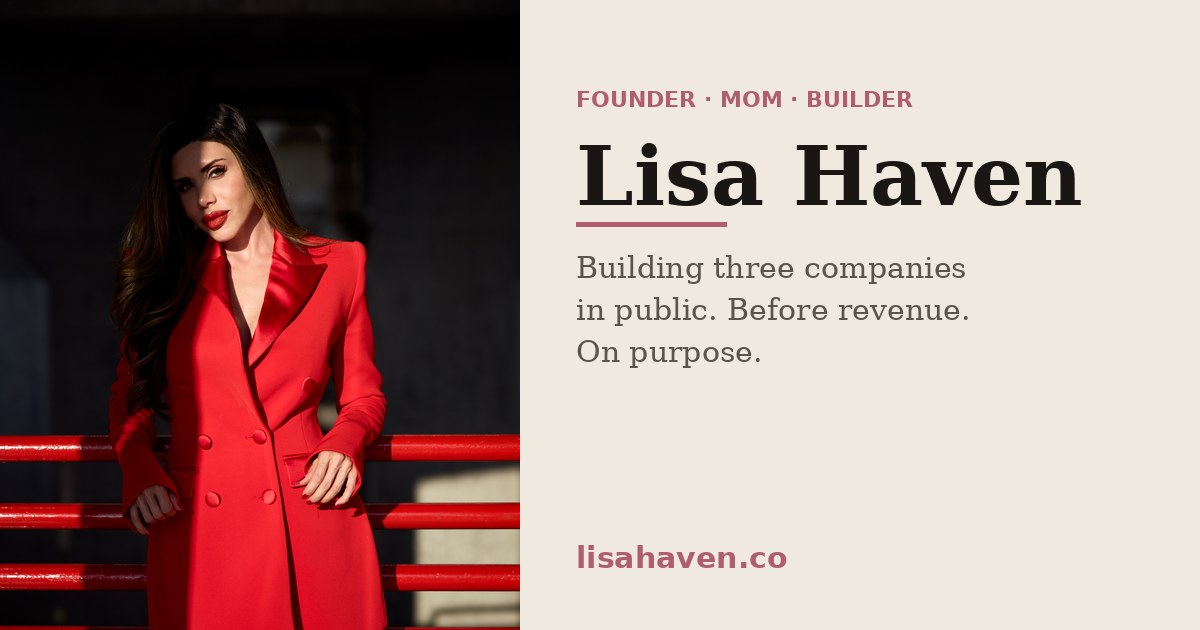
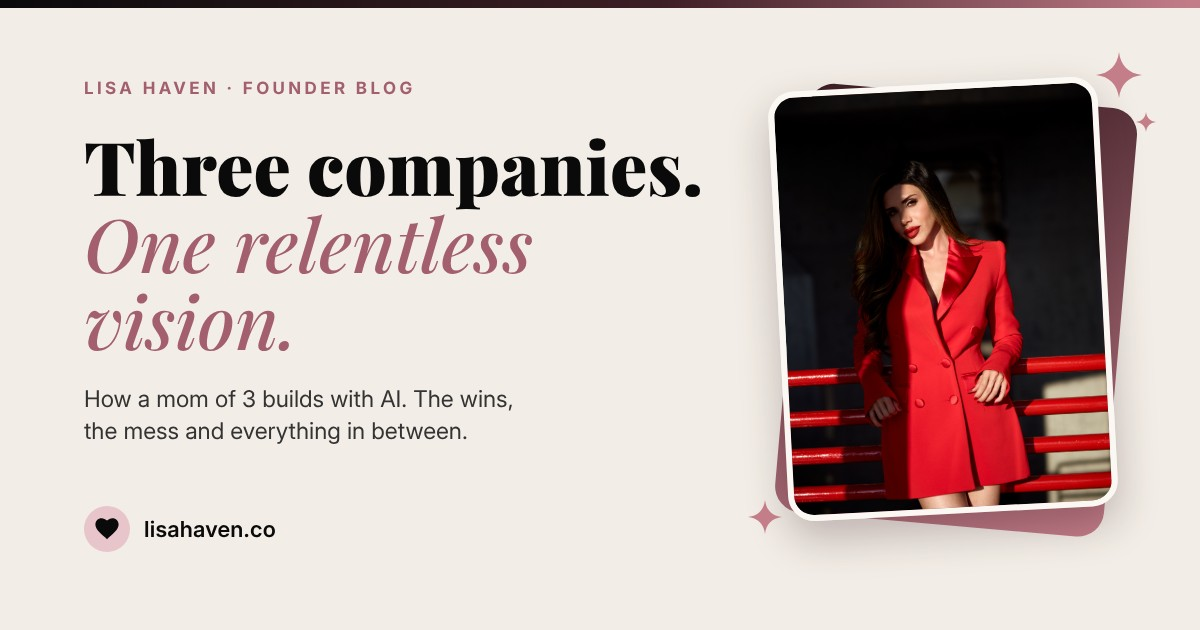
New branded link preview cards for every post and the home page
Claude-Session: https://claude.ai/code/session_01W1Bq6CJjowp62NKPwwQUNW

diff --git a/templates/share.html b/templates/share.html
@@ -1,0 +1,54 @@
+<!DOCTYPE html>
+<html lang="en"><head><meta charset="UTF-8"><title>Lisa Haven share card</title>
+<!-- Link preview card (1200 x 630) for texts, iMessage, LinkedIn, Facebook and X. Filled in by tools/render-share.py -->
+<style>
+@font-face{font-family:'PF';src:url('fonts/PlayfairDisplay.ttf');font-weight:400 900}
+@font-face{font-family:'PF';src:url('fonts/PlayfairDisplay-Italic.ttf');font-weight:400 900;font-style:italic}
+@font-face{font-family:'IN';src:url('fonts/Inter.ttf');font-weight:300 800}
+:root{--cream:#F2EDE6;--ink:#0A0A0A;--rose:#C47E8A;--rd:#A35F6D;--rl:#E8C4CB;--plum:#3D1E25}
+*{margin:0;padding:0;box-sizing:border-box}
+body{background:var(--cream)}
+#card{width:1200px;height:630px;position:relative;overflow:hidden;background:var(--cream)}
+.ribbon{position:absolute;top:0;left:0;right:0;height:8px;background:linear-gradient(90deg,#0A0A0A,#3D1E25 55%,#C47E8A)}
+.left{position:absolute;left:84px;top:78px;width:620px;height:474px;display:flex;flex-direction:column}
+.eye{font:700 17px 'IN';letter-spacing:.2em;color:var(--rd);text-transform:uppercase}
+.h{font-variant-numeric:lining-nums;margin-top:30px;font-family:'PF';font-weight:900;color:var(--ink);line-height:1.04}
+.h .a{display:block;font-style:italic;font-weight:500;color:var(--rd)}
+.sub{text-wrap:balance;margin-top:24px;font:400 23px/1.4 'IN';color:#333;max-width:540px}
+.brand{margin-top:auto;display:flex;align-items:center;gap:14px}
+.dot{width:46px;height:46px;border-radius:50%;background:var(--rl);display:flex;align-items:center;justify-content:center}
+.brand b{font:600 22px 'IN';color:var(--ink);letter-spacing:.01em}
+.photo-wrap{position:absolute;right:92px;top:84px;width:330px;height:430px}
+.back{position:absolute;inset:0;border-radius:26px;background:linear-gradient(160deg,#3D1E25,#C47E8A);transform:rotate(5deg) translate(14px,10px)}
+.photo{position:absolute;inset:0;border-radius:26px;overflow:hidden;transform:rotate(-3deg);box-shadow:0 18px 40px rgba(61,30,37,.28);border:6px solid #FBF8F4}
+.photo img{width:100%;height:100%;object-fit:cover;object-position:50% 22%}
+.spark{position:absolute;fill:var(--rose)}
+</style></head><body>
+<div id="card"><div class="ribbon"></div>
+<div class="left">
+  <div class="eye" id="eye"></div>
+  <div class="h" id="h"><span id="t"></span><span class="a" id="a"></span></div>
+  <div class="sub" id="sub"></div>
+  <div class="brand"><div class="dot"><svg width="24" height="22" viewBox="0 0 24 22"><path d="M12 21.2 10.3 19.6C4.3 14.2 0.4 10.7 0.4 6.4 0.4 2.9 3.1 0.2 6.6 0.2c2 0 3.9.9 5.4 2.4C13.5 1.1 15.4.2 17.4.2c3.5 0 6.2 2.7 6.2 6.2 0 4.3-3.9 7.8-9.9 13.2z" fill="#0A0A0A"/></svg></div><b>lisahaven.co</b></div>
+</div>
+<div class="photo-wrap"><div class="back"></div><div class="photo"><img id="img"></div></div>
+<svg class="spark" style="right:58px;top:52px" width="46" height="46" viewBox="0 0 24 24"><path d="M12 0C12.8 7 17 11.2 24 12 17 12.8 12.8 17 12 24 11.2 17 7 12.8 0 12 7 11.2 11.2 7 12 0Z"/></svg>
+<svg class="spark" style="right:44px;top:112px" width="20" height="20" viewBox="0 0 24 24"><path d="M12 0C12.8 7 17 11.2 24 12 17 12.8 12.8 17 12 24 11.2 17 7 12.8 0 12 7 11.2 11.2 7 12 0Z"/></svg>
+<svg class="spark" style="right:418px;top:500px" width="34" height="34" viewBox="0 0 24 24"><path d="M12 0C12.8 7 17 11.2 24 12 17 12.8 12.8 17 12 24 11.2 17 7 12.8 0 12 7 11.2 11.2 7 12 0Z"/></svg>
+</div>
+<script>
+window.fill=async function(d){
+  eye.textContent=d.eyebrow; t.textContent=d.title; a.textContent=d.accent; sub.textContent=d.sub; img.src=d.photo;
+  await new Promise(r=>{if(img.complete&&img.naturalWidth)r();else img.onload=r;});
+  await document.fonts.ready;
+  // shrink headline until the left column fits without touching the brand row
+  let size=78; const L=document.querySelector('.left'), brand=document.querySelector('.brand');
+  for(;size>=44;size-=2){ h.style.fontSize=size+'px';
+    const s=document.getElementById('sub').getBoundingClientRect(), b=brand.getBoundingClientRect(), hb=h.getBoundingClientRect();
+    if(s.bottom+28<=b.top && hb.right<=L.getBoundingClientRect().right+1) break; }
+  const p=document.querySelector('.photo-wrap').getBoundingClientRect(), lr=L.getBoundingClientRect();
+  // nothing in the text column may reach the photo
+  const widest=Math.max(...[...L.querySelectorAll('#t,#a,#sub,#eye')].map(e=>{const r=document.createRange();r.selectNodeContents(e);return Math.max(...[...r.getClientRects()].map(x=>x.right),0)}));
+  return size>=44 && widest < p.left-40;
+};
+</script></body></html>

diff --git a/build.js b/build.js
@@ -370,7 +370,8 @@ try {
       const url = SITE + '/blog/' + encodeURIComponent(p.slug) + '/';
       const title = (p.seoTitle && p.seoTitle.trim()) ? p.seoTitle.trim() : p.title + ' | Lisa Haven';
       const desc = (p.metaDescription && p.metaDescription.trim()) ? p.metaDescription.trim() : (p.excerpt && p.excerpt.trim()) ? p.excerpt.trim() : (plain(p.body).slice(0, 155) || DEFAULT_DESC);
-      const img = abs(p.image) || DEFAULT_IMG;
+      const ogFile = path.join(__dirname, 'images', 'og', p.slug + '.jpg');
+      const img = fs.existsSync(ogFile) ? SITE + '/images/og/' + encodeURIComponent(p.slug) + '.jpg' : (abs(p.image) || DEFAULT_IMG);
       const published = iso(p.date);
       const schema = {
         '@context': 'https://schema.org',
@@ -393,6 +394,7 @@ try {
         + '\n  <meta property="og:description" content="' + esc(desc) + '">'
         + '\n  <meta property="og:url" content="' + url + '">'
         + '\n  <meta property="og:image" content="' + esc(img) + '">'
+        + (fs.existsSync(ogFile) ? '\n  <meta property="og:image:width" content="1200">\n  <meta property="og:image:height" content="630">' : '')
         + (published ? '\n  <meta property="article:published_time" content="' + published + '">' : '')
         + '\n  <meta property="article:author" content="Lisa Haven">'
         + (p.category ? '\n  <meta property="article:section" content="' + esc(p.category) + '">' : '')

diff --git a/tools/render-share.py b/tools/render-share.py
@@ -1,0 +1,32 @@
+"""
+Render link preview cards (1200 x 630) for every post in tools/specs/share-cards.json.
+
+Usage:  python3 tools/render-share.py            (all cards)
+        python3 tools/render-share.py <slug>     (1 card)
+
+Writes images/og/<slug>.jpg. build.js uses it as the post's share image when it exists.
+The "_site" entry rewrites images/uploads/og-card.jpg, the home page share image.
+Stops if any text would not fit cleanly or contains an em dash.
+"""
+import asyncio, json, os, sys
+from playwright.async_api import async_playwright
+ROOT = os.path.dirname(os.path.dirname(os.path.abspath(__file__)))
+TEMPLATE = 'file://' + os.path.join(ROOT, 'templates', 'share.html')
+
+async def main(only):
+    spec = json.load(open(os.path.join(ROOT, 'tools', 'specs', 'share-cards.json')))
+    photo = 'file://' + os.path.join(ROOT, spec['photo'].lstrip('/'))
+    async with async_playwright() as p:
+        b = await p.chromium.launch(); pg = await b.new_page(viewport={'width': 1200, 'height': 630})
+        for slug, c in spec['cards'].items():
+            if only and slug != only: continue
+            for v in c.values():
+                if '—' in v or '–' in v: sys.exit(f'Stopped: dash in {slug}: {v}')
+            await pg.goto(TEMPLATE)
+            ok = await pg.evaluate('d => window.fill(d)', dict(c, photo=photo))
+            if not ok: sys.exit(f'Stopped: text does not fit cleanly on {slug}. Shorten it.')
+            out = os.path.join(ROOT, 'images', 'uploads', 'og-card.jpg') if slug == '_site' else os.path.join(ROOT, 'images', 'og', slug + '.jpg')
+            await pg.locator('#card').screenshot(path=out, type='jpeg', quality=90)
+            print('saved', os.path.relpath(out, ROOT))
+        await b.close()
+asyncio.run(main(sys.argv[1] if len(sys.argv) > 1 else None))

diff --git a/CLAUDE.md b/CLAUDE.md
@@ -10,6 +10,7 @@ The writing rules live in Lisa's "Blog Post Rulebook" artifact (claude.ai). Foll
    `python3 tools/render-images.py tools/specs/<slug>.json`
    If Chromium is not found, prefix `PLAYWRIGHT_BROWSERS_PATH=/opt/pw-browsers`.
    This makes `images/uploads/<slug>-cover.png` (1080 x 1350) and `images/pins/lisa-haven-pin-<slug>-N.png` (1000 x 1500) in the brand template (`templates/card.html`). Look at every image before publishing.
+   **Share card.** Add the post to `tools/specs/share-cards.json` (eyebrow, title, accent, sub) and run `python3 tools/render-share.py <slug>`. This makes `images/og/<slug>.jpg` (1200 x 630), the preview people see when the link is texted or shared. `build.js` uses it automatically. The `_site` entry is the home page card (`images/uploads/og-card.jpg`).
 2. **Post file.** Create `_posts/YYYY-MM-DD-<slug>.md`. The slug after the date becomes the web address `lisahaven.co/blog/<slug>/`. Frontmatter fields: `title`, `category`, `emoji`, `date`, `readTime` (like `8 min read`), `excerpt`, `seoTitle`, `metaDescription`, `image` (`/images/uploads/<slug>-cover.png`), `draft: false`. Body in Markdown. Posts here show up in Decap automatically.
 3. **Publish.** Commit the post, spec and images together and push to `main`. Netlify runs `build.js`, which adds the post to `blog-posts.json`, builds its page at `/blog/<slug>/` with its own title, description, share image and article details, and updates `sitemap.xml`.
 4. **Check.** Confirm the Netlify deploy is `ready` and lists `blog/<slug>/index.html`.
